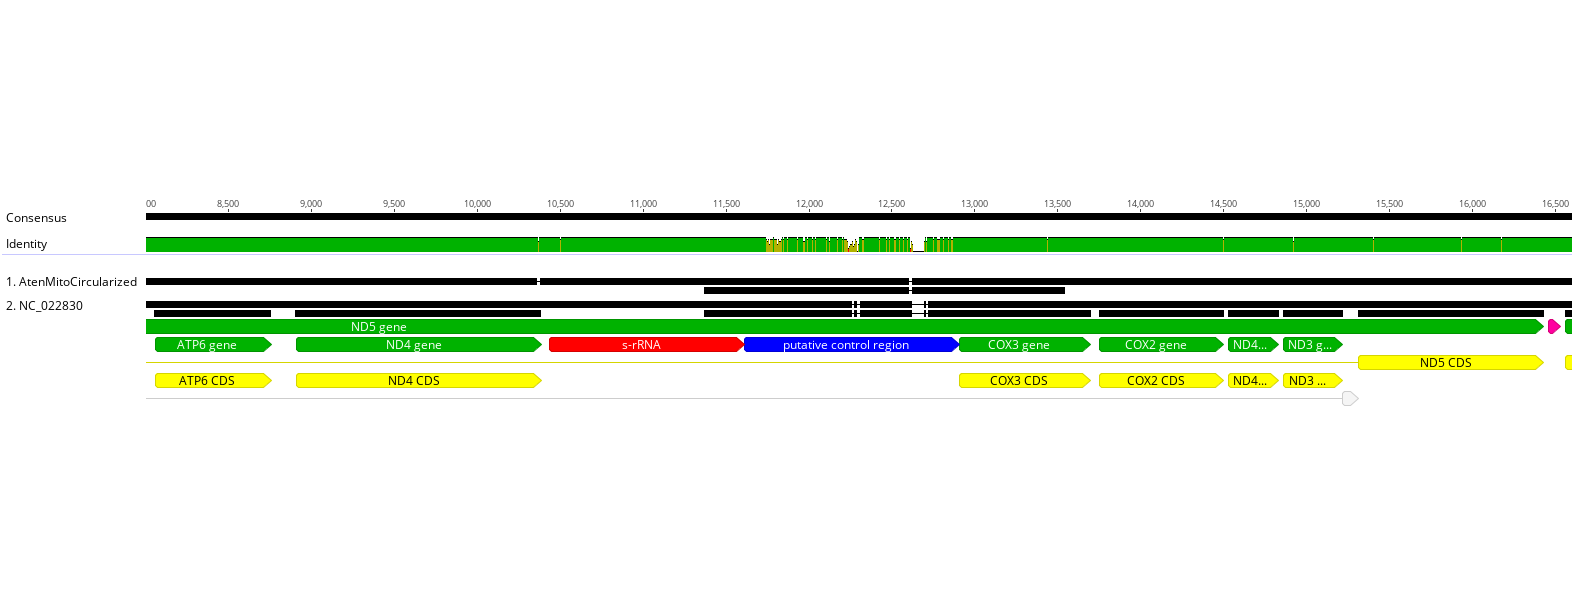
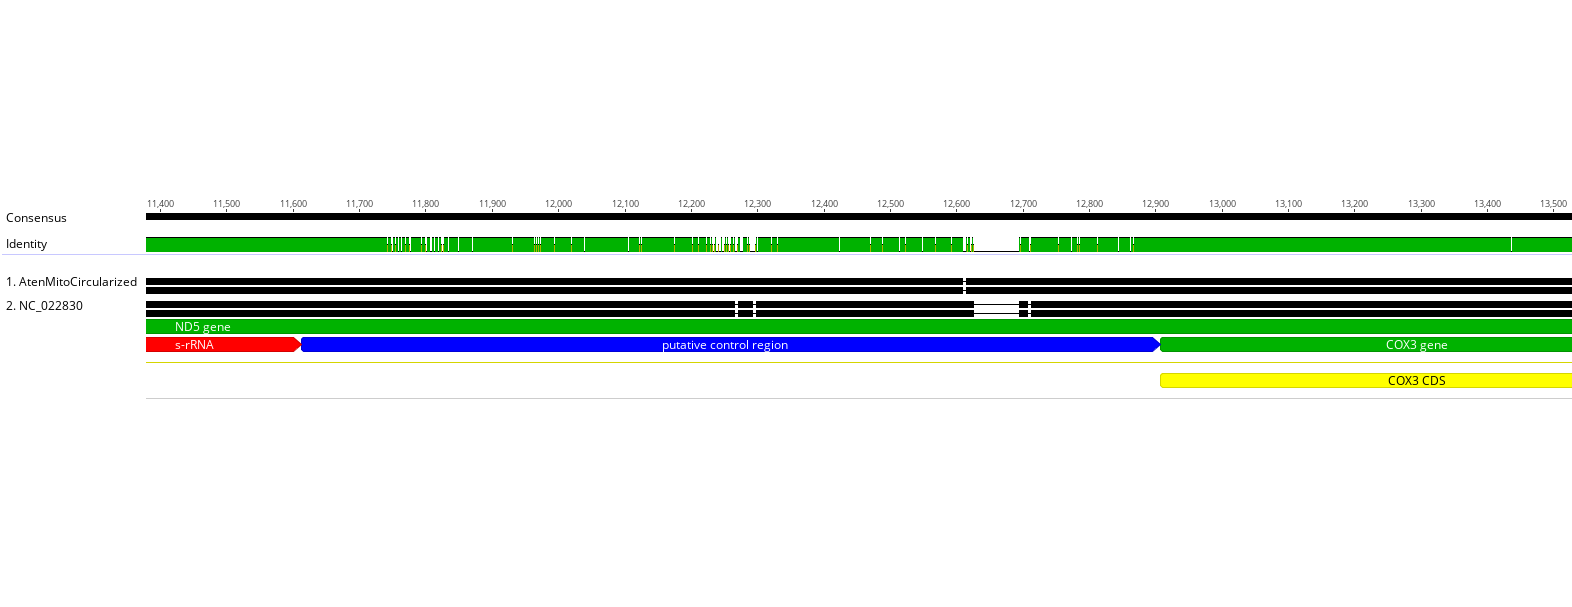
Add mitogenome assembly

diff --git a/hpc/mitogenome/README.md b/hpc/mitogenome/README.md
@@ -8,5 +8,7 @@ The *A. digitifera* mitogenome was used as a bait. Each round MITObim assembles 
 
 MITObim finished after 7 rounds resulting in a single contig of 19029bp. Manual inspection of this sequence revealed that it contained overlapping ends and could be circularised resulting in a final sequence of length 18338bp.  This is very close to the reference *A. tenuis* mitogenome on genbank (NC_022830) but includes some additional sequence in the putative control region.  
 
+An alignment of NC_022830 and our mitogenome assembly is shown below for the putative control region.  In other regions the sequences are almost identical.
+
 ![alignment_control_region](../../figures/Aten_mitogenome_align_control.png)
 
